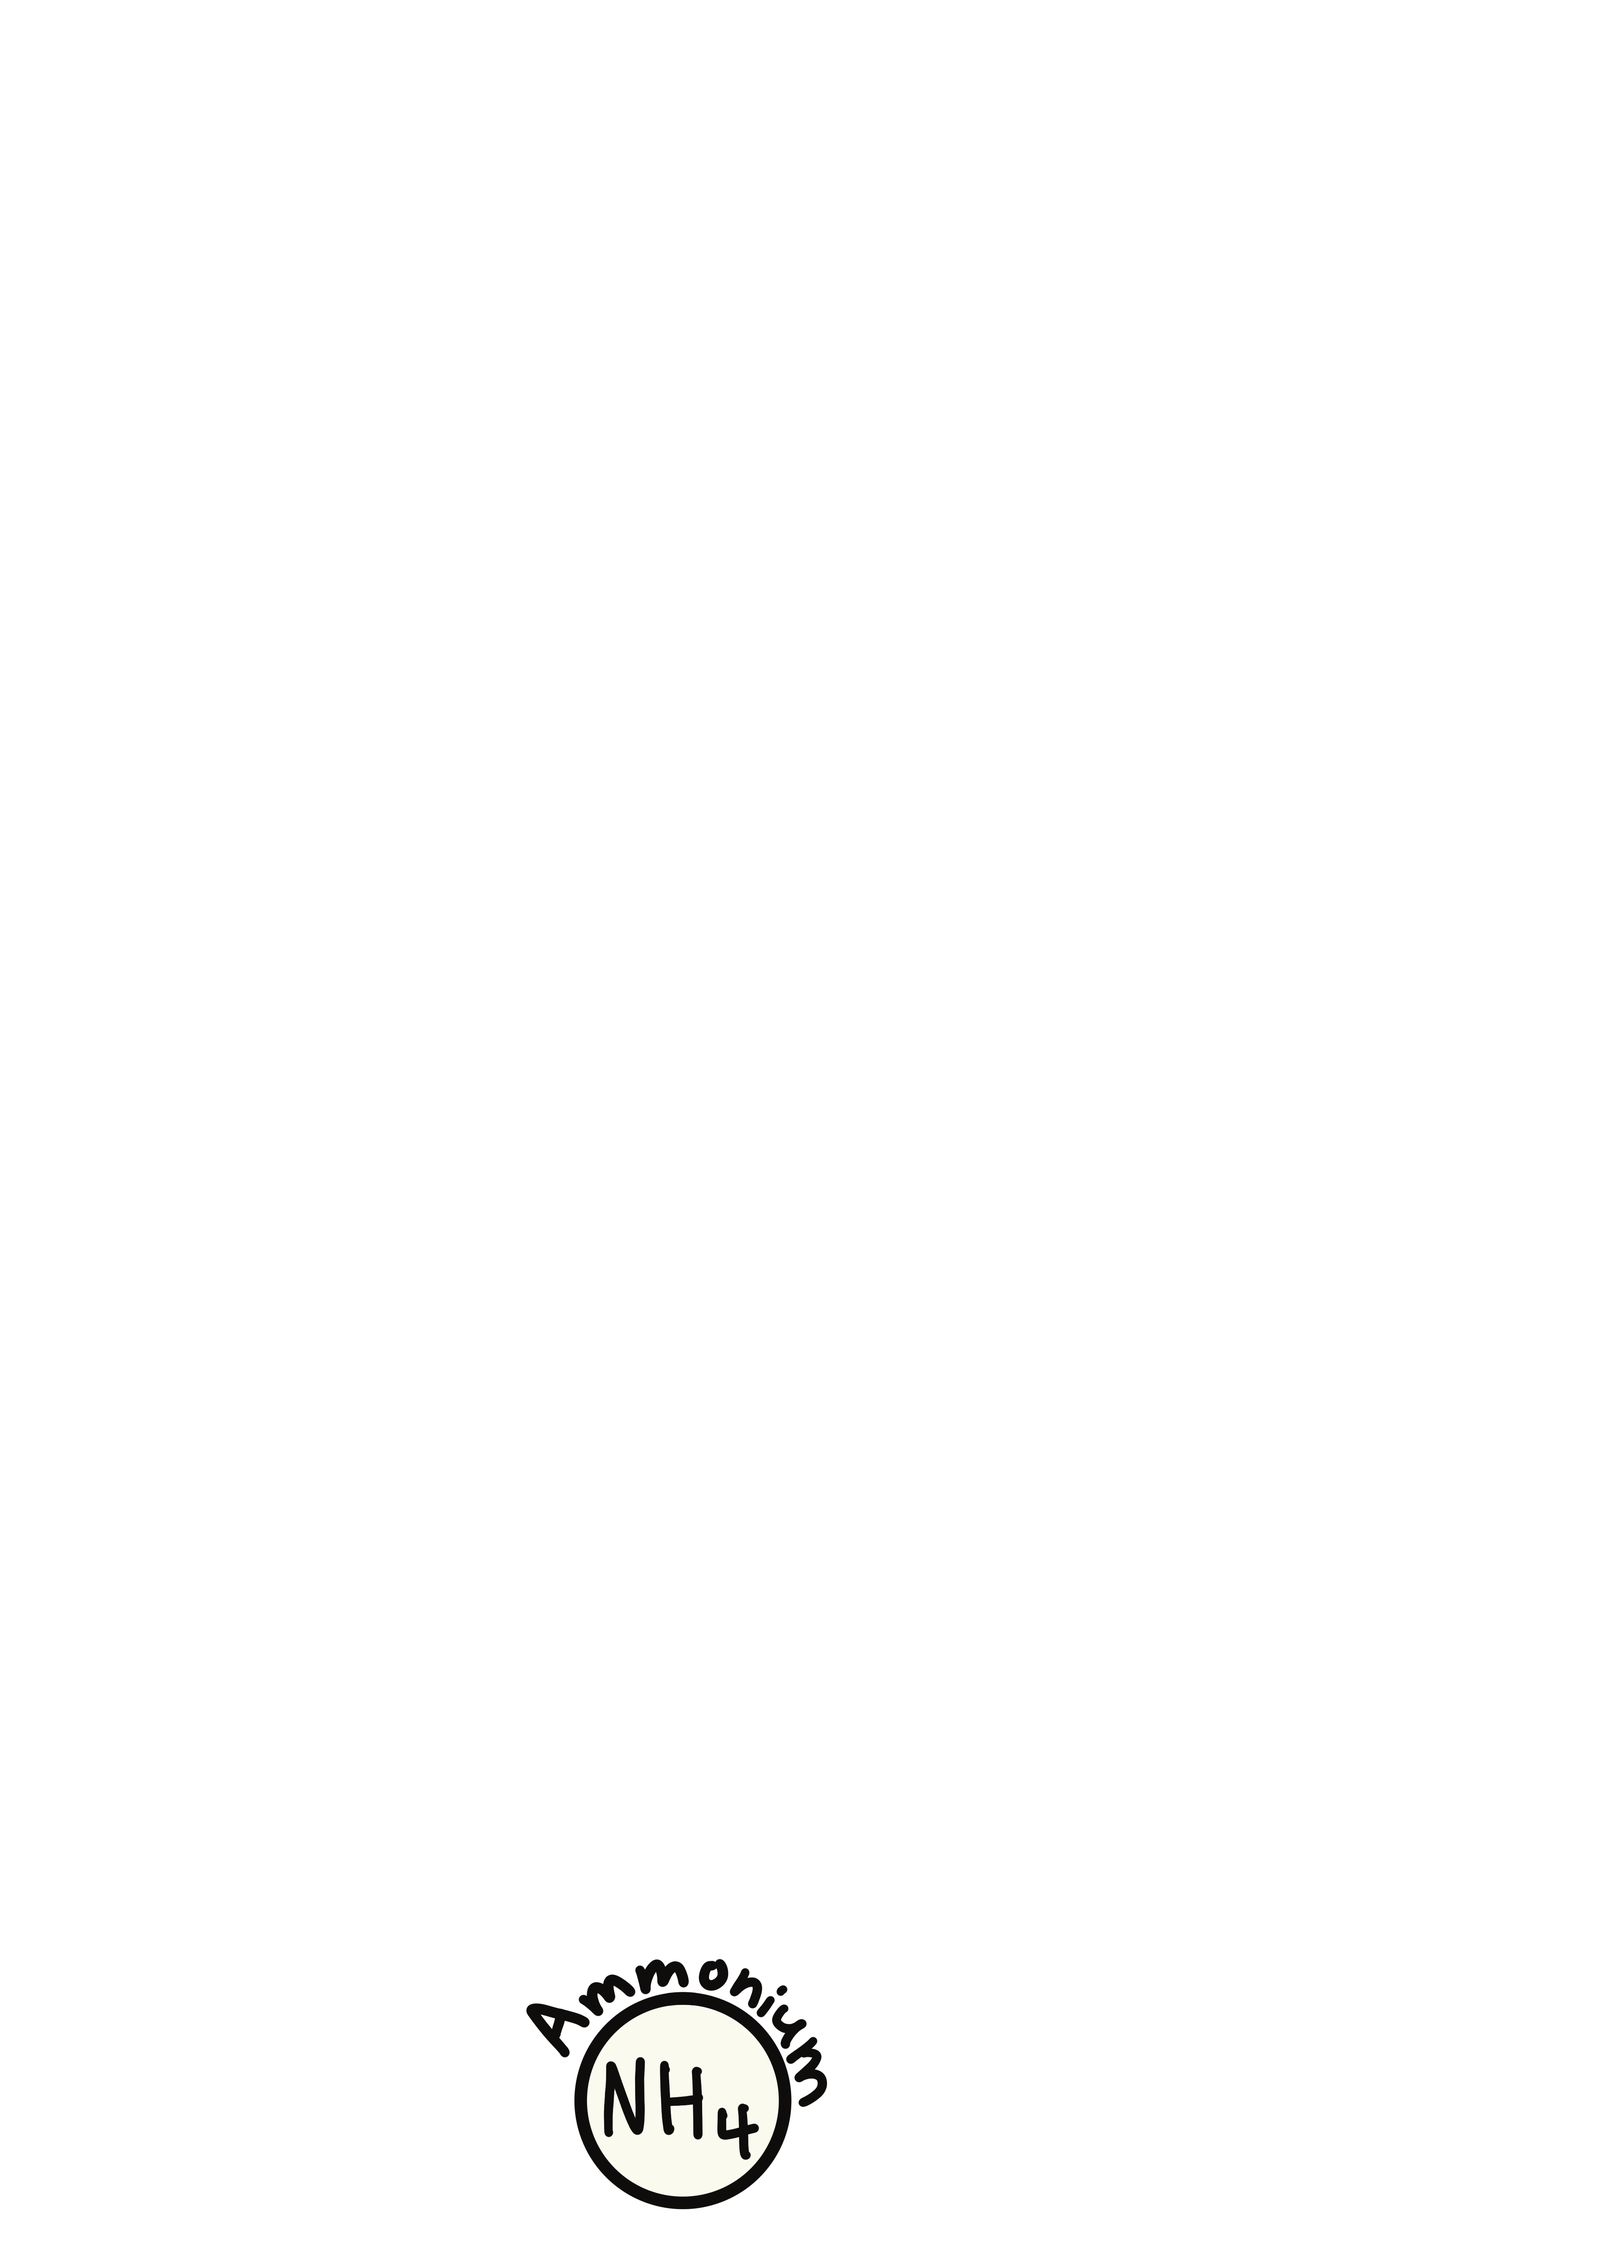
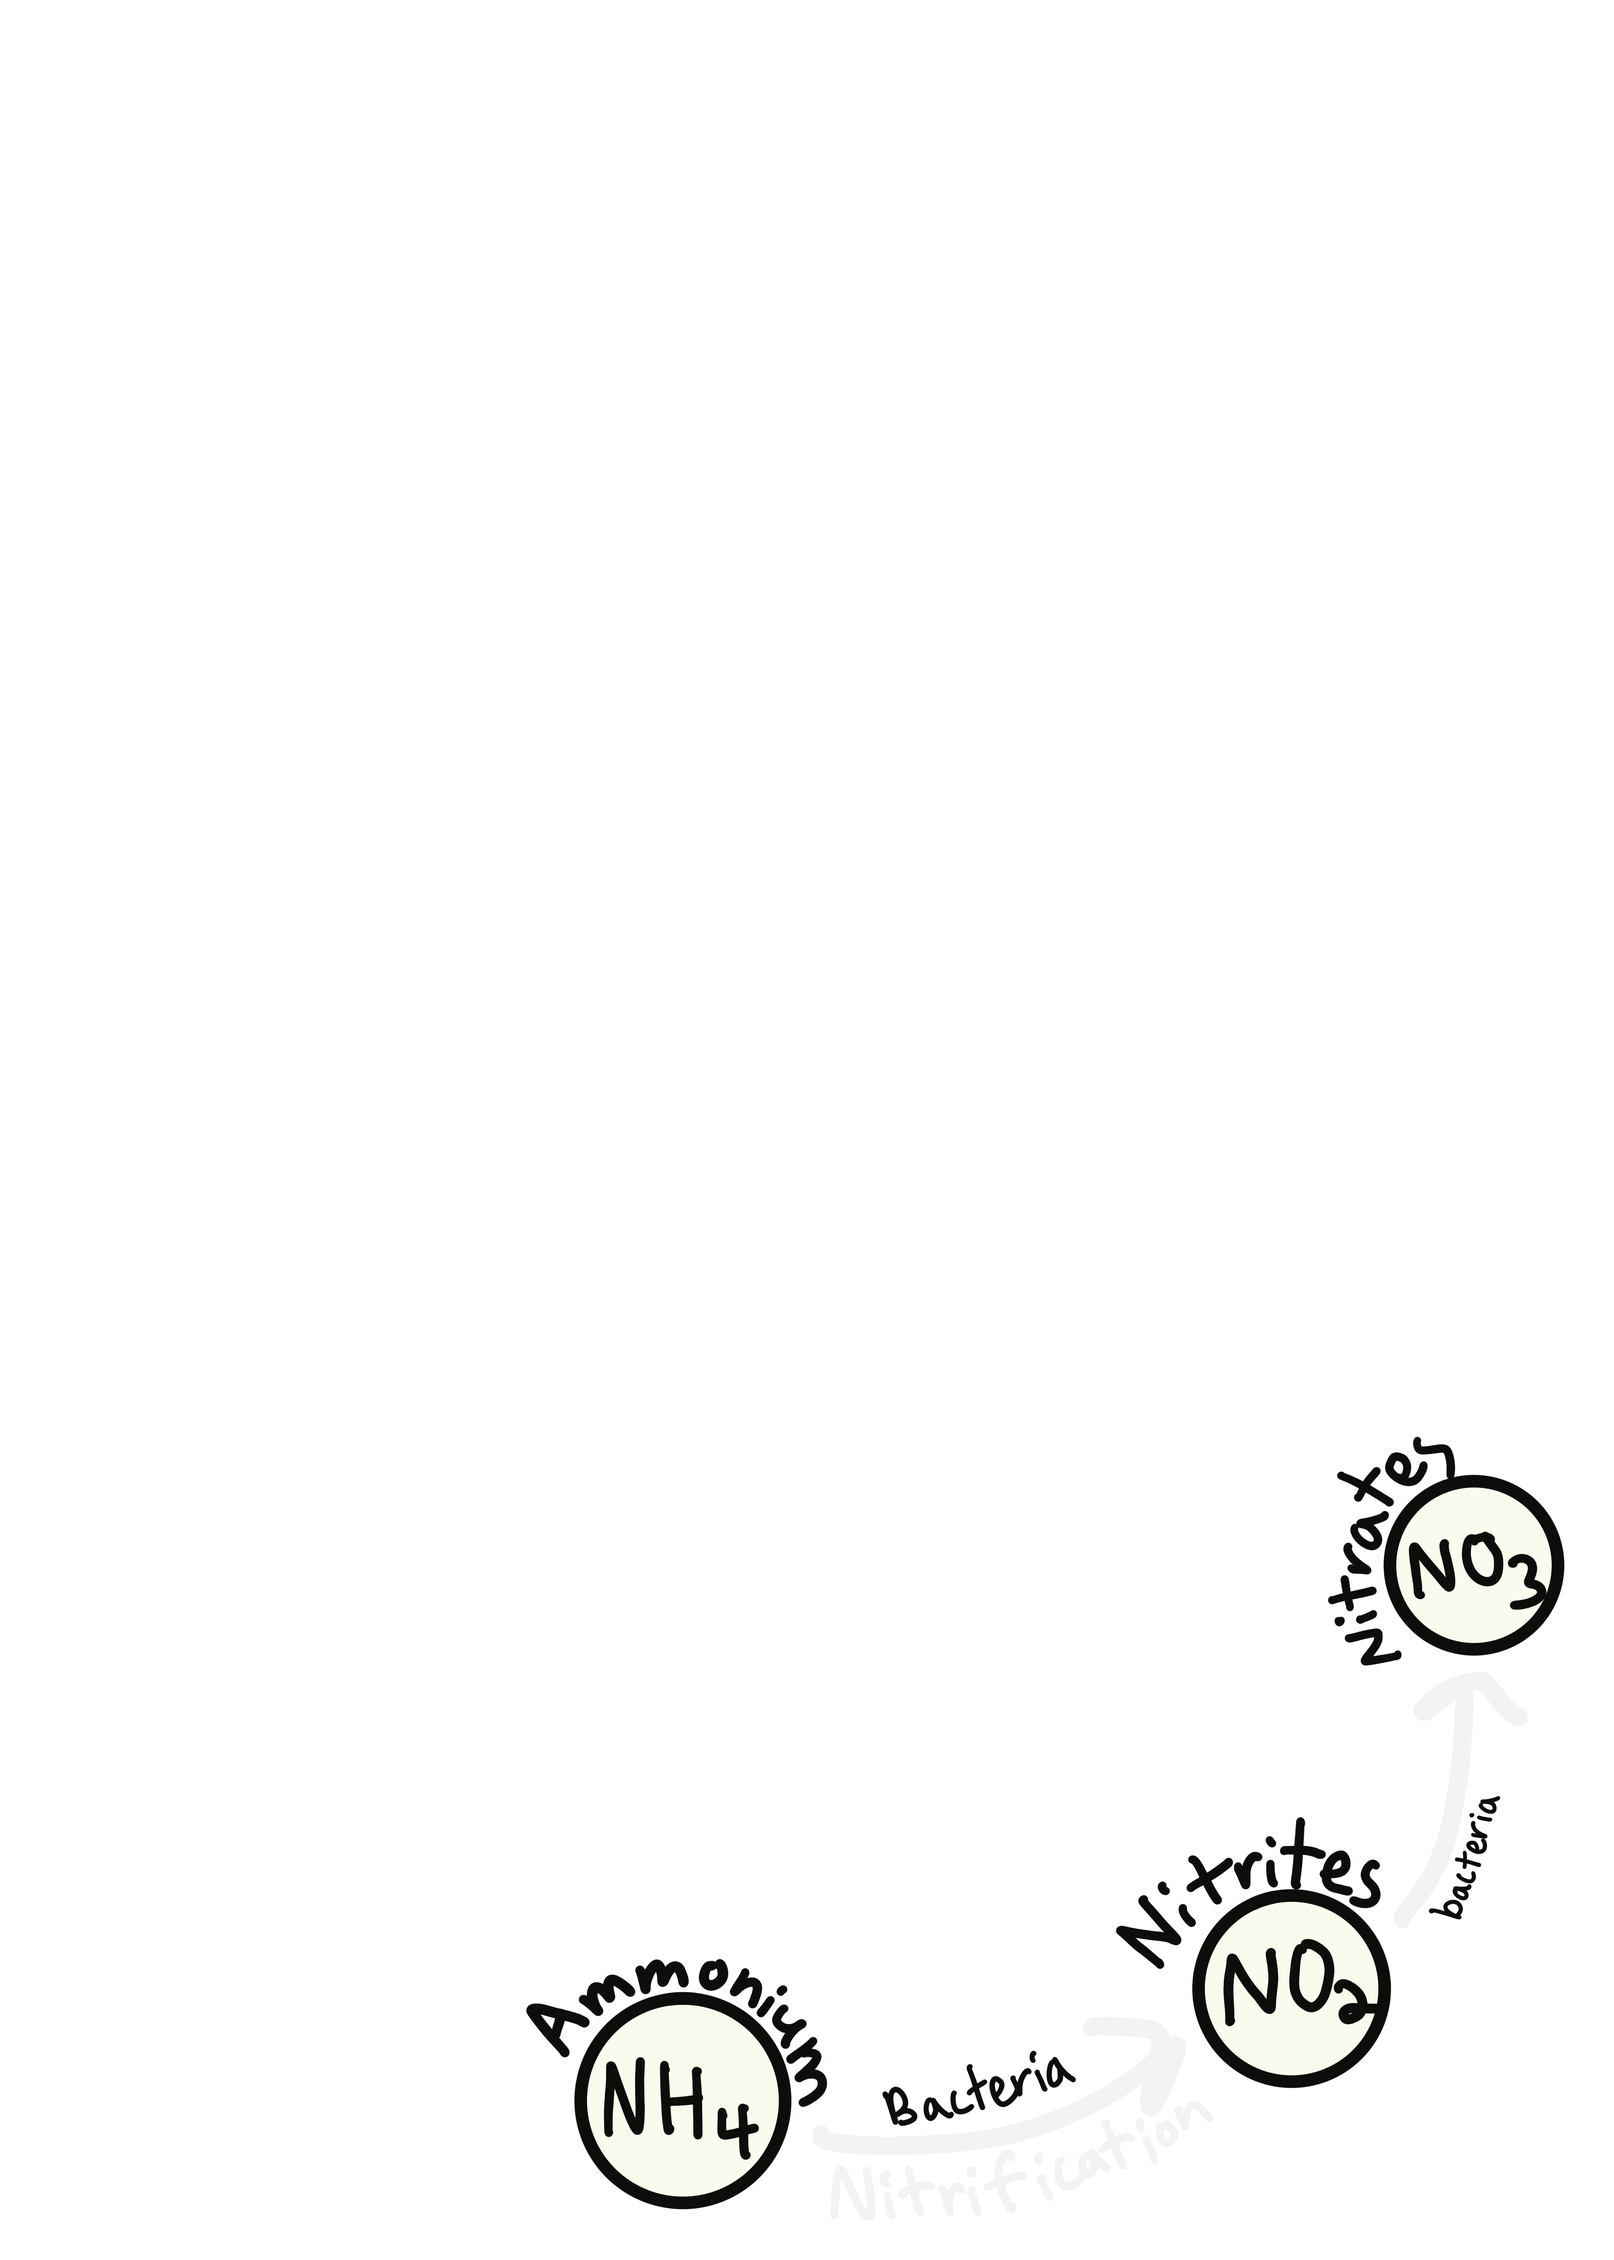
P?

diff --git a/public/static/apes/js/cycles.js b/public/static/apes/js/cycles.js
@@ -70,9 +70,57 @@ const CYCLES = [
             "./static/apes/src/n/0003.png",
             "./static/apes/src/n/0004.png",
             "./static/apes/src/n/0005.png",
-            "./static/apes/src/n/0006.png",
-            "./static/apes/src/n/0007.png",
-            "./static/apes/src/n/0008.png",
+        ],
+        steps: [
+            {
+                title: "All",
+                brief: "",
+                html: "",
+            },
+            {
+                title: "(1)",
+                brief: "",
+                html: "",
+            },
+            {
+                title: "(2)",
+                brief: "",
+                html: "",
+            },
+            {
+                title: "(3)",
+                brief: "",
+                html: "",
+            },
+            {
+                title: "(4)",
+                brief: "",
+                html: "",
+            },
+            {
+                title: "(5)",
+                brief: "",
+                html: "",
+            },
+            {
+                title: "(6)",
+                brief: "",
+                html: "",
+            }
+        ],
+    },
+    {
+        title: "Phosphorous",
+        base_image: "./static/apes/src/p/bkg.png",
+        layer_images: [
+            "./static/apes/src/p/0000.png",
+            "./static/apes/src/p/0001.png",
+            "./static/apes/src/p/0002.png",
+            "./static/apes/src/p/0003.png",
+            "./static/apes/src/p/0004.png",
+            "./static/apes/src/p/0005.png",
+            "./static/apes/src/p/0006.png",
+            "./static/apes/src/p/0007.png",
         ],
         steps: [
             {
@@ -117,23 +165,6 @@ const CYCLES = [
             },
             {
                 title: "(8)",
-                brief: "",
-                html: "",
-            },
-            {
-                title: "(9)",
-                brief: "",
-                html: "",
-            },
-        ],
-    },
-    {
-        title: "Phosphorous",
-        base_image: "",
-        layer_images: [""],
-        steps: [
-            {
-                title: "",
                 brief: "",
                 html: "",
             },
